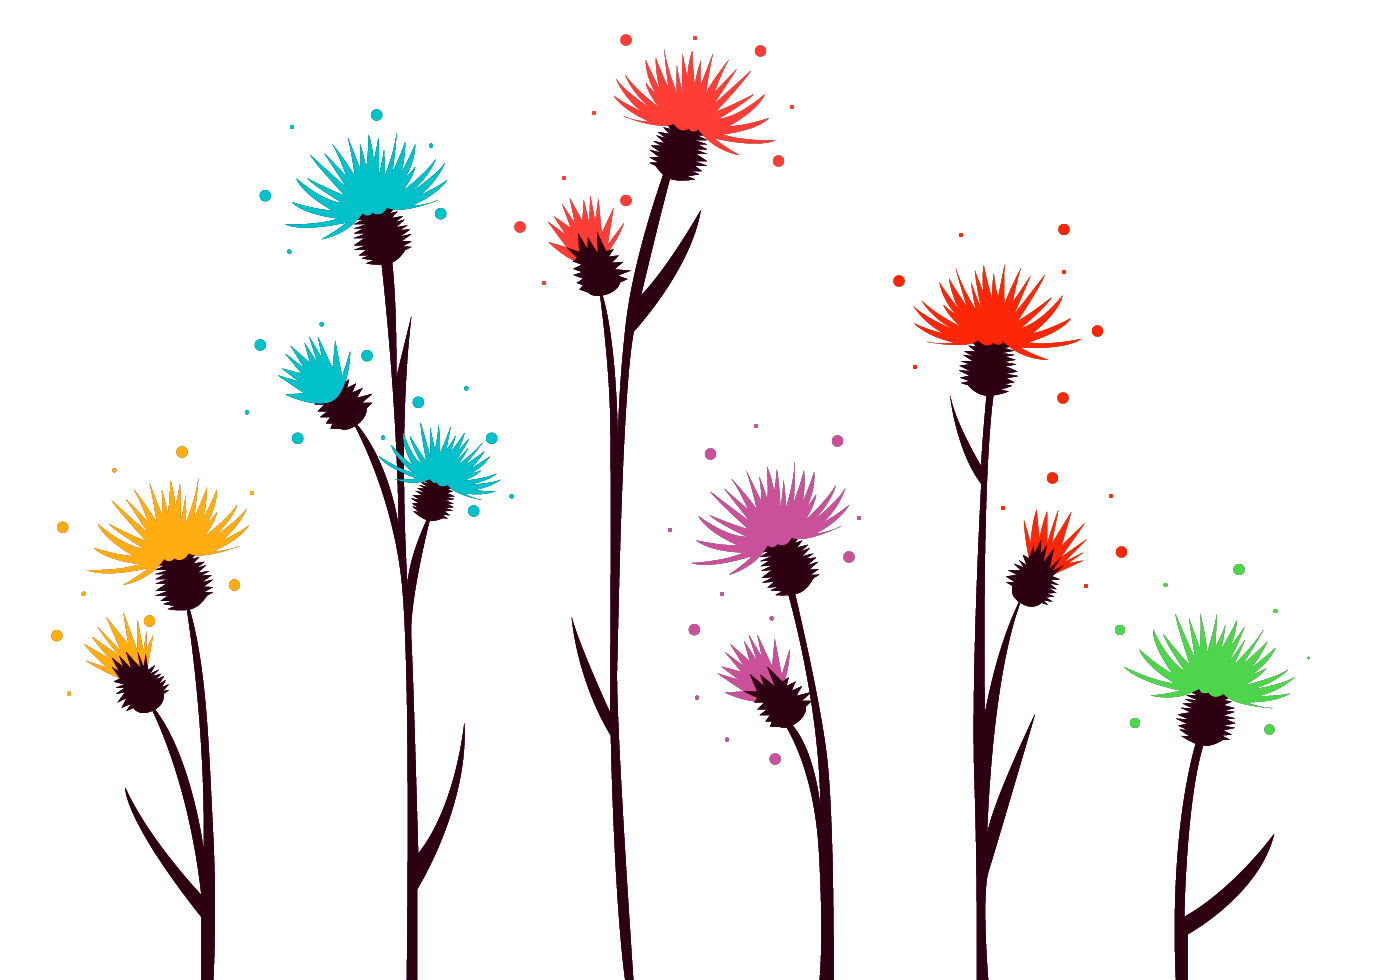
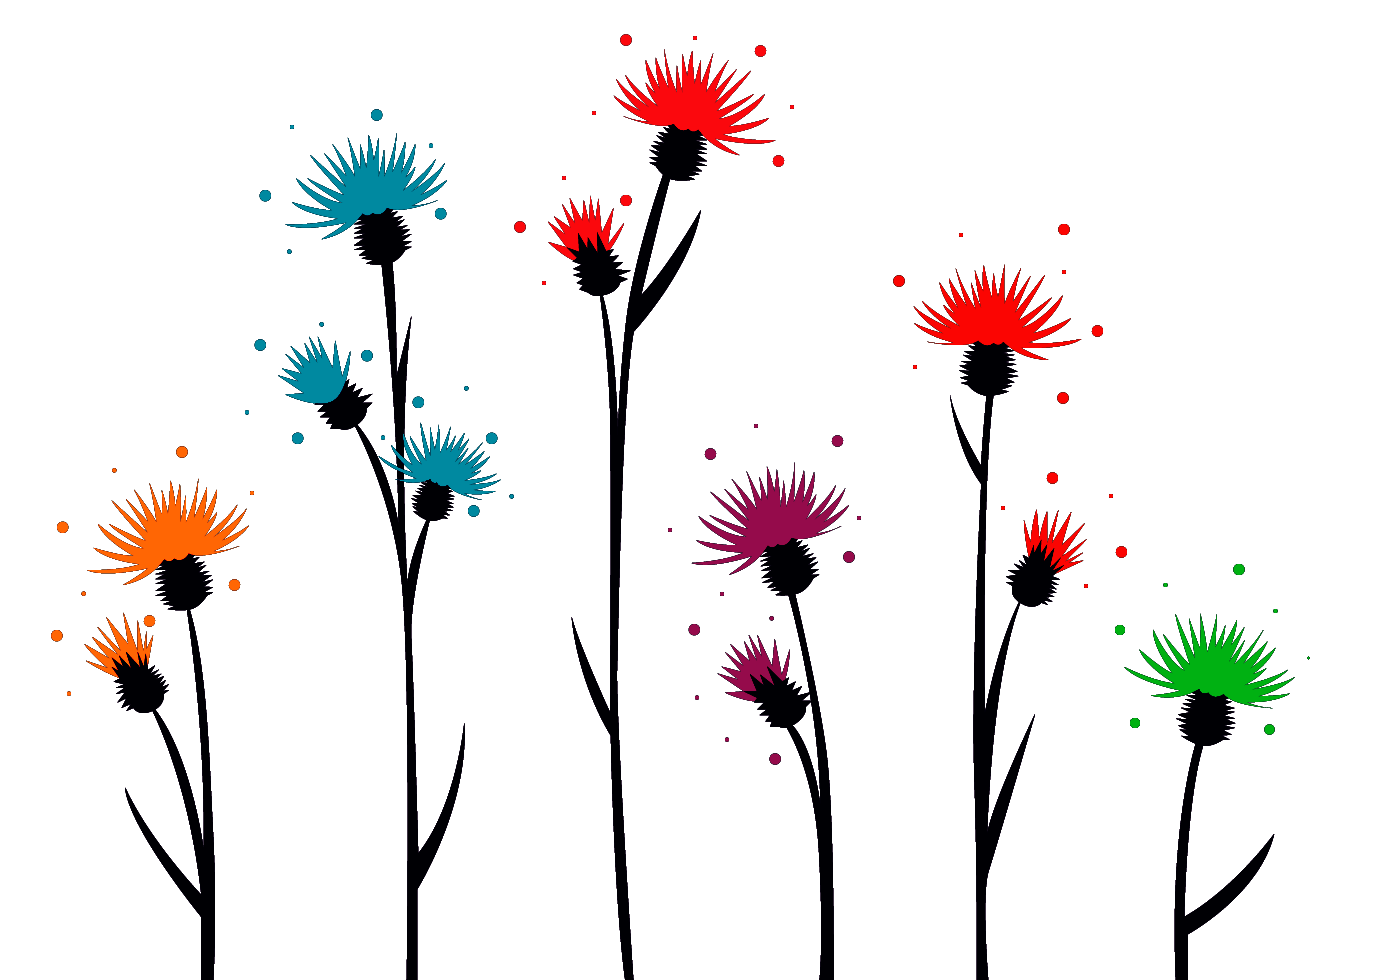
Flowers - sidebar bg

diff --git a/src/components/Sidebar/styled.js b/src/components/Sidebar/styled.js
@@ -1,10 +1,16 @@
 import styled from "styled-components"
 import media from "styled-media-query"
 
+import myImage from "../../images/sidebar_flowers.png"
+
 export const SidebarWrapper = styled.aside`
   align-items: center;
   border-right: 1px solid var(--borders);
   background: var(--mediumBackground);
+  background-image: url(${myImage});
+  background-position: bottom;
+  background-repeat: repeat-x;
+  background-size: 50%;
   display: flex;
   flex-direction: column;
   height: 100vh;
